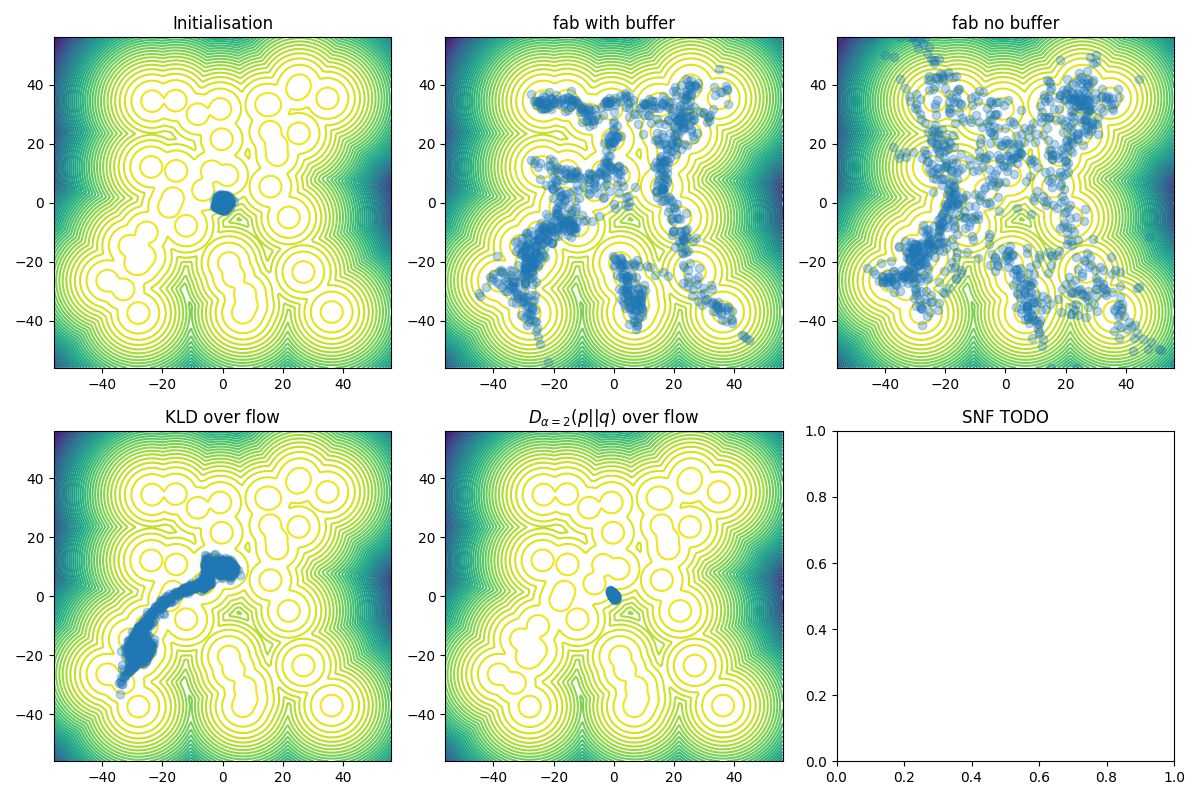
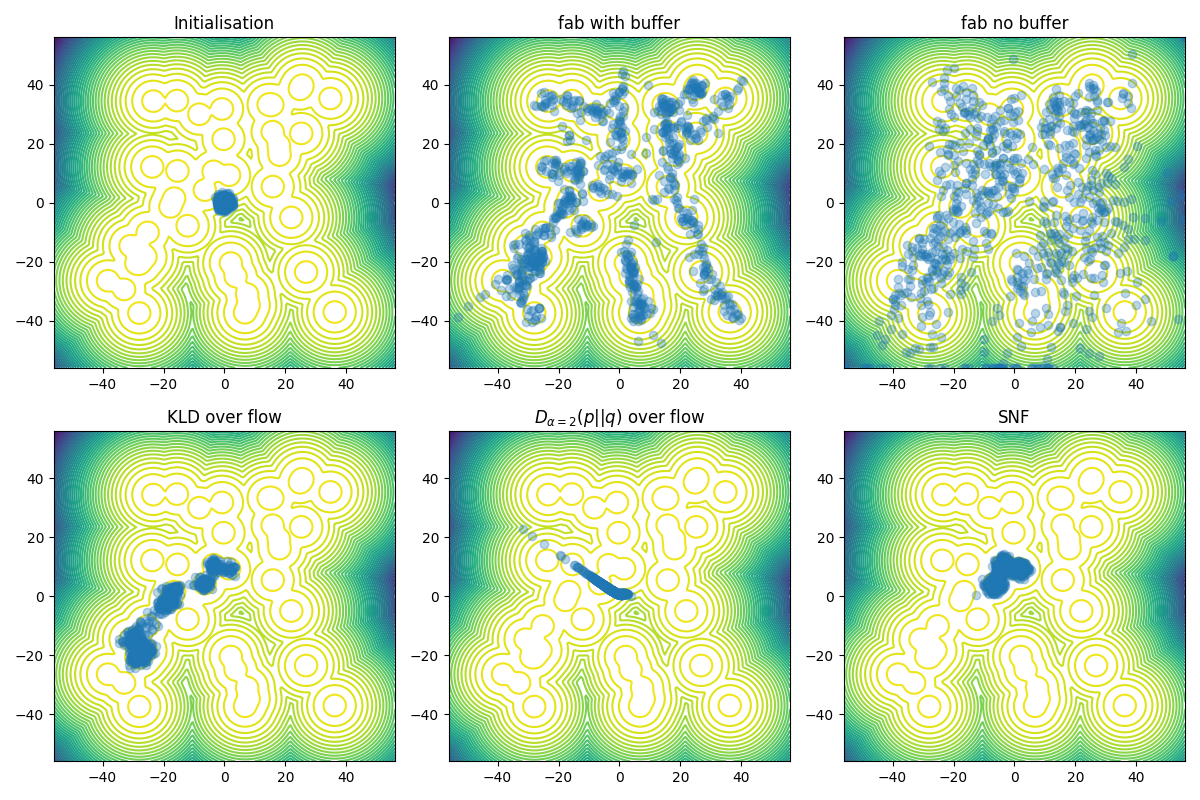
fix: device issues

diff --git a/examples/paper_results/gmm/results_vis.py b/examples/paper_results/gmm/results_vis.py
@@ -4,26 +4,42 @@ import hydra
 import matplotlib.pyplot as plt
 from omegaconf import DictConfig
 from examples.make_flow import make_wrapped_normflowdist
+from examples.setup_run_snf import make_normflow_snf_model, SNFModel
 from fab.utils.plotting import plot_contours, plot_marginal_pair
 from fab.target_distributions.gmm import GMM
 import torch
 
 PATH = os.getcwd()
 
-def plot_result(cfg: DictConfig, ax: plt.axes, model_name: Optional[str] = None):
-    n_samples: int = 1000
+def plot_result(cfg: DictConfig, ax: plt.axes, target, model_name: Optional[str] = None):
+    n_samples: int = 800
     alpha = 0.3
     plotting_bounds = (-cfg.target.loc_scaling * 1.4, cfg.target.loc_scaling * 1.4)
 
     dim = cfg.target.dim
-    flow = make_wrapped_normflowdist(dim, n_flow_layers=cfg.flow.n_layers,
-                                     layer_nodes_per_dim=cfg.flow.layer_nodes_per_dim,
-                                     act_norm=cfg.flow.act_norm)
+    if model_name and model_name[0:3] == "snf":
+        snf = make_normflow_snf_model(dim,
+                                       n_flow_layers=cfg.flow.n_layers,
+                                       layer_nodes_per_dim=cfg.flow.layer_nodes_per_dim,
+                                       act_norm=cfg.flow.act_norm,
+                                       target=target
+                                       )
+        if model_name:
+            path_to_model = f"{PATH}/models/{model_name}_model.pt"
+            checkpoint = torch.load(path_to_model, map_location="cpu")
+            snf.load_state_dict(checkpoint['flow'])
+        # wrap appropriately
+        snf = SNFModel(snf, cfg.target.dim)
+        flow = snf.flow
+    else:
+        flow = make_wrapped_normflowdist(dim, n_flow_layers=cfg.flow.n_layers,
+                                         layer_nodes_per_dim=cfg.flow.layer_nodes_per_dim,
+                                         act_norm=cfg.flow.act_norm)
 
-    if model_name:
-        path_to_model = f"{PATH}/models/{model_name}_model.pt"
-        checkpoint = torch.load(path_to_model, map_location="cpu")
-        flow._nf_model.load_state_dict(checkpoint['flow'])
+        if model_name:
+            path_to_model = f"{PATH}/models/{model_name}_model.pt"
+            checkpoint = torch.load(path_to_model, map_location="cpu")
+            flow._nf_model.load_state_dict(checkpoint['flow'])
 
     samples_flow = flow.sample((n_samples,)).detach()
 
@@ -32,9 +48,9 @@ def plot_result(cfg: DictConfig, ax: plt.axes, model_name: Optional[str] = None)
 
 @hydra.main(config_path="./", config_name="config.yaml")
 def run(cfg: DictConfig):
-    model_names = [None, "fab_with_buffer", "fab_no_buffer", "kld", "nis"]
+    model_names = [None, "fab_with_buffer", "fab_no_buffer", "flow_kld", "flow_nis", "snf"]
     titles = ["Initialisation", "fab with buffer", "fab no buffer",
-              "KLD over flow", r"$D_{\alpha=2}(p || q)$ over flow"]
+              "KLD over flow", r"$D_{\alpha=2}(p || q)$ over flow", "SNF"]
 
     n_rows, n_cols = 2, 3
     fig, axs = plt.subplots(n_rows, n_cols, figsize=(n_cols*4, n_rows*4))
@@ -45,16 +61,15 @@ def run(cfg: DictConfig):
     target = GMM(dim=cfg.target.dim, n_mixes=cfg.target.n_mixes,
                  loc_scaling=cfg.target.loc_scaling, log_var_scaling=cfg.target.log_var_scaling,
                  use_gpu=False)
+    if cfg.training.use_64_bit:
+        torch.set_default_dtype(torch.float64)
 
     for i, (ax, model_name, title) in enumerate(zip(axs[:len(titles)], model_names, titles)):
-        if i > 1:
-            cfg.flow.n_layers = 15  # update when all are over 10 layers
         plot_contours(target.log_prob, bounds=plotting_bounds, ax=ax, n_contour_levels=50,
                       grid_width_n_points=200)
-        plot_result(cfg, ax, model_name)
+        plot_result(cfg, ax, target, model_name)
         ax.set_title(title)
 
-    axs[-1].set_title("SNF TODO")
     plt.tight_layout()
     plt.show()
 

diff --git a/examples/setup_run_snf.py b/examples/setup_run_snf.py
@@ -16,6 +16,43 @@ from examples.make_flow import make_normflow_snf_model
 from examples.setup_run import SetupPlotterFn, setup_logger, get_n_iterations
 
 
+class SNFModel(Model):
+    def __init__(self, snf, dim):
+        self.snf = snf
+        self.loss = self.snf.reverse_kld
+        # hack so that plotting with self.flow.sample works
+        self.flow = type('', (), {})()
+        self.flow.sample = lambda shape: snf.sample(shape[0])[0]
+        self.annealed_importance_sampler = type('', (), {})()
+        self.annealed_importance_sampler.sample_and_log_weights = \
+            lambda batch_size, *args, **kwargs: (
+            torch.zeros(batch_size, dim), torch.zeros(batch_size))
+
+    def get_iter_info(self):
+        return {}
+
+    def get_eval_info(self, outer_batch_size: int, inner_batch_size: int):
+        return {}
+
+    def parameters(self):
+        return self.snf.parameters()
+
+    def save(self,
+             path: "str"
+             ):
+        """Save FAB model to file."""
+        torch.save({'flow': self.snf.state_dict()},
+                   path)
+
+    def load(self, file_path, map_location) -> None:
+        checkpoint = torch.load(file_path, map_location=map_location)
+        try:
+            self.snf.load_state_dict(checkpoint['flow'])
+        except RuntimeError:
+            print('Flow could not be loaded. '
+                  'Perhaps there is a mismatch in the architectures.')
+
+
 def setup_trainer_and_run_snf(cfg: DictConfig, setup_plotter: SetupPlotterFn,
                                target: TargetDistribution):
     """Create and trainer and run."""
@@ -41,35 +78,8 @@ def setup_trainer_and_run_snf(cfg: DictConfig, setup_plotter: SetupPlotterFn,
         snf.cuda()
         print("utilising GPU")
 
-    class SNFModel(Model):
-        def __init__(self, snf):
-            self.snf = snf
-            self.loss = self.snf.reverse_kld
-            # hack so that plotting with self.flow.sample works
-            self.flow = type('', (), {})()
-            self.flow.sample = lambda shape: snf.sample(shape[0])[0]
-            self.annealed_importance_sampler = type('', (), {})()
-            self.annealed_importance_sampler.sample_and_log_weights = \
-                lambda batch_size, *args, **kwargs: (torch.zeros(batch_size, dim), torch.zeros(batch_size))
 
-        def get_iter_info(self):
-            return {}
-
-        def get_eval_info(self, outer_batch_size: int, inner_batch_size: int):
-            return {}
-
-        def parameters(self):
-            return self.snf.parameters()
-
-        def save(self,
-                 path: "str"
-                 ):
-            """Save FAB model to file."""
-            torch.save({'flow': self.snf.state_dict()},
-                       path)
-
-
-    model = SNFModel(snf)
+    model = SNFModel(snf, dim)
 
     optimizer = torch.optim.Adam(snf.parameters(), lr=cfg.training.lr)
     # scheduler = torch.optim.lr_scheduler.ExponentialLR(optimizer, gamma=0.995)

diff --git a/fab/target_distributions/many_well.py b/fab/target_distributions/many_well.py
@@ -152,7 +152,7 @@ class ManyWellEnergy(DoubleWellEnergy, TargetDistribution):
             sum_log_prob = 0.0
             test_set_iterator = self.get_modes_test_set_iterator(batch_size=batch_size)
             for x in test_set_iterator:
-                sum_log_prob += torch.sum(log_q_fn(x))
+                sum_log_prob += torch.sum(log_q_fn(x)).cpu().item()
             with torch.no_grad():
                 test_set_from_ais = self.get_ais_based_test_set_samples(batch_size)
                 test_set_ais_samples_mean_log_prob = \
